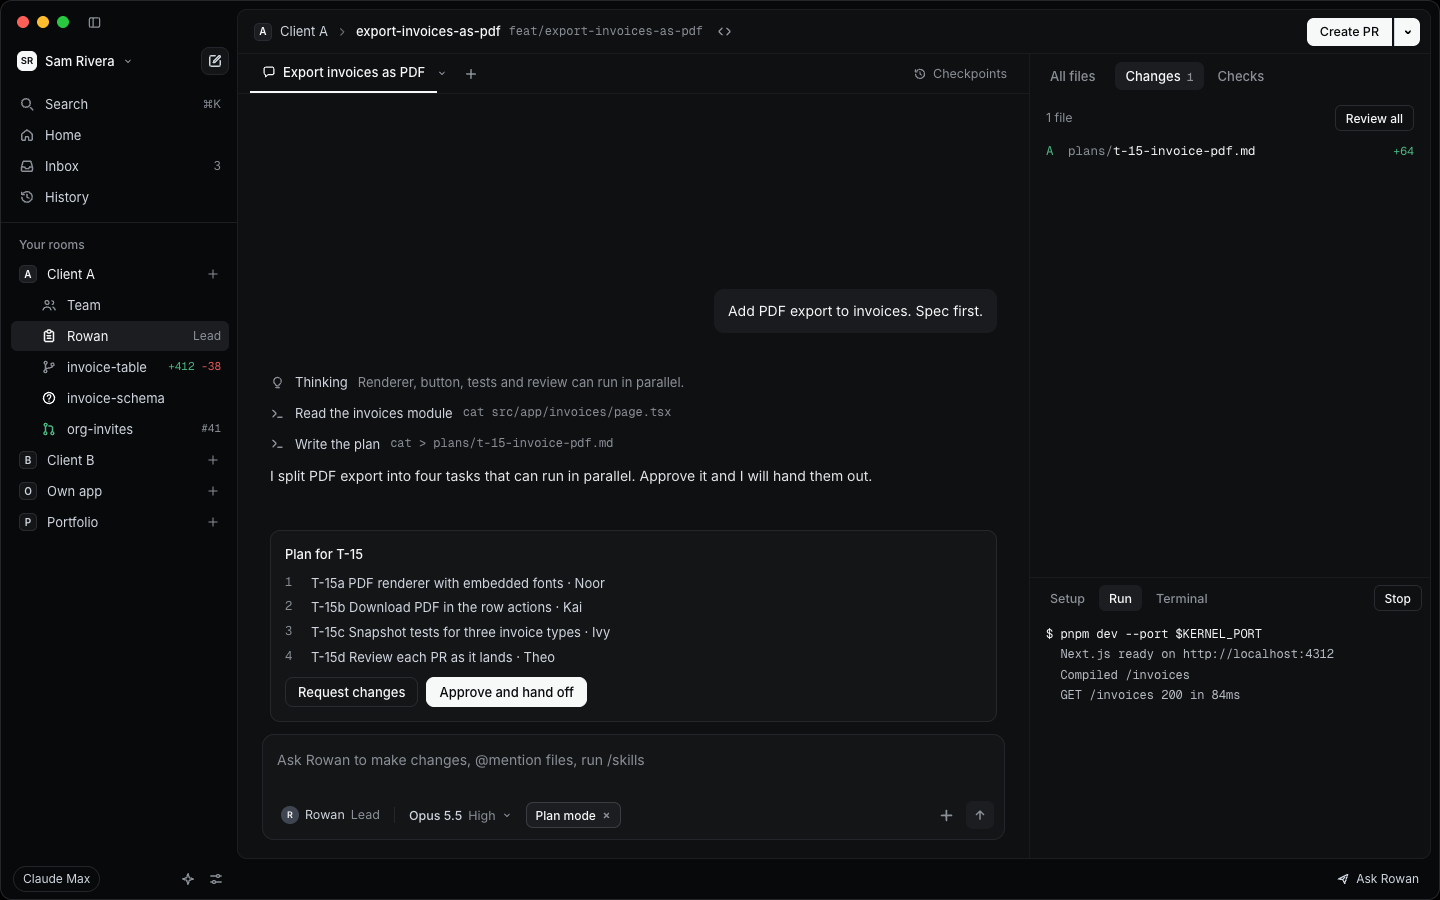
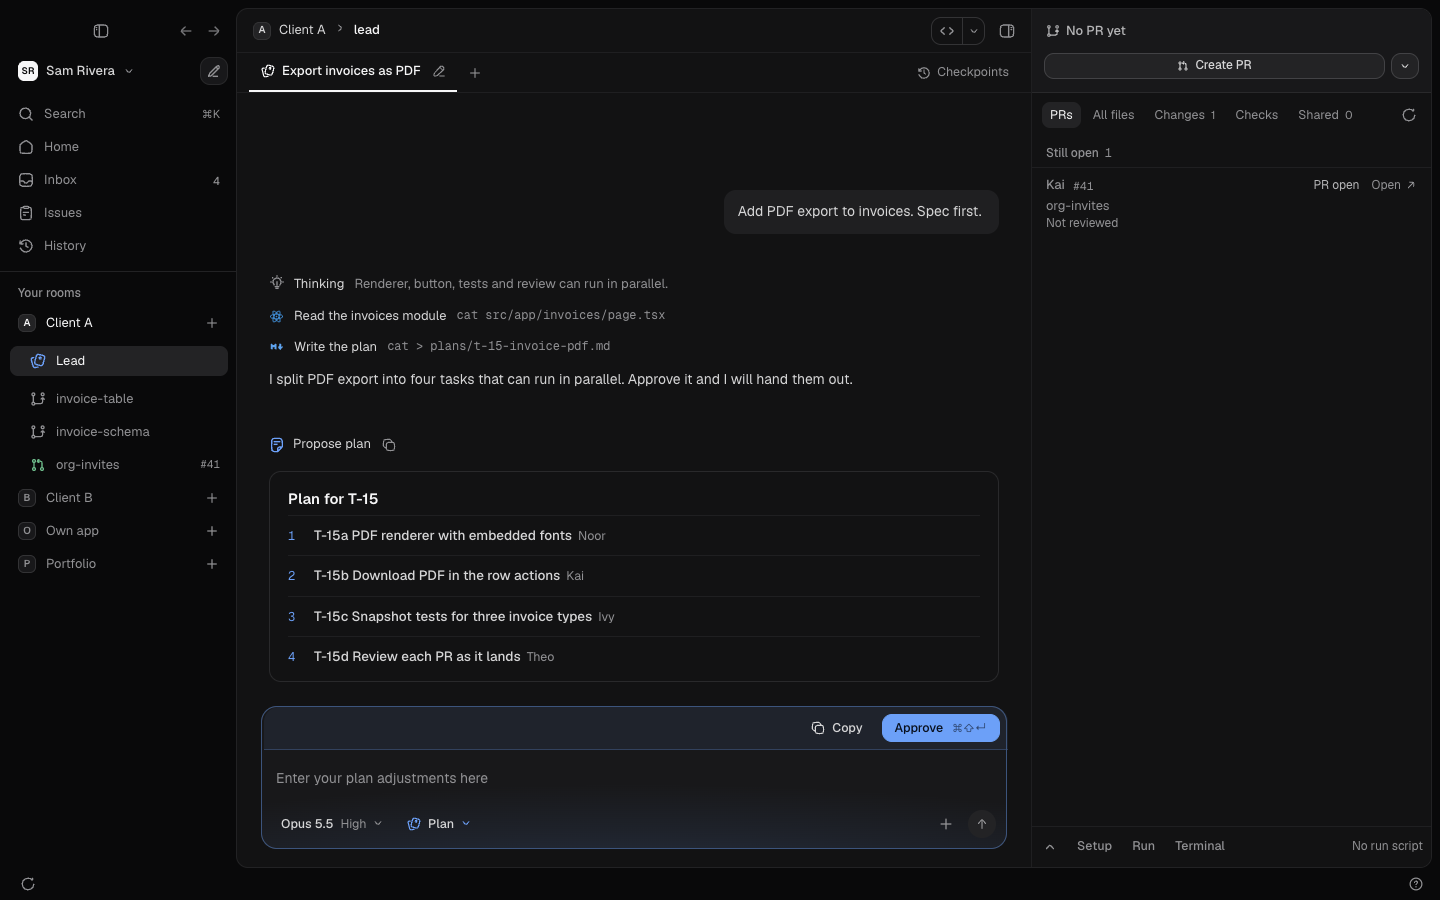
docs: say Kernel instead of Rowan in docs, the site and the repo's Lead file (KERNEL-698)

diff --git a/scripts/archive-frames.ts b/scripts/archive-frames.ts
@@ -12,10 +12,10 @@
 //   --rebuild-world   build the room again instead of reusing the one saved for this code
 //
 // Nothing is simulated. It launches the built app headless (KERNEL_HEADLESS=1) with its own application-data folder, its own HOME and a
-// temp git repo with a bare origin, so it never touches the data or ~/.claude of a Kernel you run. The room, its chats with Rowan, its
+// temp git repo with a bare origin, so it never touches the data or ~/.claude of a Kernel you run. The room, its chats with Kernel, its
 // workspaces and their worktrees are made through the app's own IPC, and every archive is the app's own: main stops sessions and removes
 // worktrees, pushes each archived workspace, and answers when it is done. The one thing set by hand is which chat a workspace belongs to
-// (and a title for the row), because only Rowan's create_workspace tool sets that and it needs a Claude session. That is one UPDATE on
+// (and a title for the row), because only Kernel's create_workspace tool sets that and it needs a Claude session. That is one UPDATE on
 // the app's database before the window loads. No Claude session ever starts: preflight passes on CLAUDE_CODE_USE_BEDROCK and no prompt is sent.
 //
 // The room is built once per code version and saved, then restored before each run, so every run archives the same untouched world.
@@ -67,7 +67,7 @@ export function classify(sig: Sig, want: Expect): Seen {
 }
 
 /** The words for a screen, as a person would say it. */
-export const say = (s: Sig) => s.kind === 'workspace' ? `"${s.title}"${s.tabs ? '' : ' with no tabs'}` : s.kind === 'new-chat' ? 'New chat with Rowan' : s.kind === 'history' ? 'History' : s.kind === 'none' ? 'a blank screen' : `${s.text}`
+export const say = (s: Sig) => s.kind === 'workspace' ? `"${s.title}"${s.tabs ? '' : ' with no tabs'}` : s.kind === 'new-chat' ? 'New chat with Kernel' : s.kind === 'history' ? 'History' : s.kind === 'none' ? 'a blank screen' : `${s.text}`
 
 /** Runs in the page. Reads the screen in the main area (the live one, not the copy an archive leaves under it while it fades, and not the footer) on every animation frame and on every DOM change, so a screen that is committed and gone between two frames still shows. Page side, so it uses nothing from this file. */
 export function sampler(want: Expect, judge: (sig: Sig, want: Expect) => Seen) {
@@ -172,7 +172,7 @@ async function freePort(): Promise<number> {
   })
 }
 
-/** A repo with one commit and a bare origin, so Rowan's chats get worktrees and a room with no GitHub merges on the Mac. */
+/** A repo with one commit and a bare origin, so Kernel's chats get worktrees and a room with no GitHub merges on the Mac. */
 function makeRepo(live: string) {
   const repo = join(live, 'shop')
   const origin = join(live, 'origin.git')
@@ -323,7 +323,7 @@ async function quiet(page: Page) {
   }
 }
 
-/** Makes the room: chats with Rowan, workspaces, a dirty tree, a merged branch and a branch ready to merge, all through the app. Returns what the paths need. */
+/** Makes the room: chats with Kernel, workspaces, a dirty tree, a merged branch and a branch ready to merge, all through the app. Returns what the paths need. */
 async function buildWorld(ctx: Ctx): Promise<World> {
   const { page } = ctx
   await pastOnboarding(page)
@@ -376,7 +376,7 @@ async function buildWorld(ctx: Ctx): Promise<World> {
   for (const key of ['nav', 'button']) writeFileSync(join(workspaces[key].path, `${key}-notes.md`), 'half done\n')
   // Pushed to the bare origin, so the commits are on the remote and Archive on merge finds nothing to keep the branch for.
   for (const [key, file] of [['billing', 'billing.ts'], ['reviewed', 'invites.ts']] as const) { commit(key, file); sh('git', ['push', 'origin', 'HEAD'], workspaces[key].path) }
-  // A chat with Rowan that has done work: a commit on the remote, so the PR header has a state to show on its own workspace.
+  // A chat with Kernel that has done work: a commit on the remote, so the PR header has a state to show on its own workspace.
   const worked = (await listWs(page)).find((w) => w.id === chats['Export invoices as PDF'].workspaceId)
   workspaces.worked = { id: worked.id, path: worked.path }
   commit('worked', 'invoices.pdf.ts')
@@ -796,7 +796,7 @@ export function table(): string {
   const after = readResults('after')
   const keys = [...new Set([...before, ...after].filter((r) => paths.some((p) => p.id === r.id)).map((r) => `${r.id}|${r.where}`))]
   const order = (k: string) => paths.findIndex((p) => p.id === k.split('|')[0]) * 10 + ['screen', 'chat', 'history'].indexOf(k.split('|')[1])
-  const word = (s: string) => (s === 'old' ? 'the item' : s === 'dest' ? 'New chat with Rowan' : s)
+  const word = (s: string) => (s === 'old' ? 'the item' : s === 'dest' ? 'New chat with Kernel' : s)
   const cell = (r?: Result) => (r ? `${r.verdict === 'PASS' ? 'pass' : r.verdict === 'FAIL' ? 'FAIL' : 'ERROR'}: ${r.sequence.length ? r.sequence.map(word).join(', then ') : (r.lines[0] ?? '').replace(/\s+/g, ' ')}` : 'not run')
   const rows = keys.sort((a, b) => order(a) - order(b)).map((k) => {
     const [id, where] = k.split('|') as [string, Where]

diff --git a/site/components/landing/StepMinis.tsx b/site/components/landing/StepMinis.tsx
@@ -12,7 +12,7 @@ export function BriefMini() {
       <div className="text-ui leading-snug">Add PDF export to invoices. Spec first.</div>
       <div className="mt-6 flex items-center">
         <span className="inline-flex h-6 items-center rounded-chip border border-line-strong bg-chip px-2 text-micro text-ink-2">
-          To Rowan · Lead
+          To Kernel
         </span>
         <span className="flex-1" />
         <span className="inline-flex size-7 items-center justify-center rounded-full bg-ink text-canvas">
@@ -32,7 +32,7 @@ const tasks = [
 export function PlanMini() {
   return (
     <div className={mini}>
-      <div className="text-small font-semibold">Rowan&apos;s plan is ready</div>
+      <div className="text-small font-semibold">Kernel&apos;s plan is ready</div>
       <div className="text-micro text-muted">T-15 · Export invoices as PDF</div>
       <div className="mt-3 grid grid-plan-rows gap-y-1 text-micro text-ink-2">
         {tasks.map(([id, title, who]) => (

diff --git a/scripts/shots.ts b/scripts/shots.ts
@@ -243,7 +243,7 @@ async function openCompare(page: Page) {
   await page.waitForTimeout(300)
 }
 
-// LeadNoChatsBranch is New chat with Rowan with New branch from main open. The menu is the composer's own, so press the button and wait for the
+// LeadNoChatsBranch is New chat with Kernel with New branch from main open. The menu is the composer's own, so press the button and wait for the
 // remote's branches, which the menu reads when it opens.
 async function openBaseBranch(page: Page) {
   await page.getByRole('button', { name: 'New branch from main' }).click()

diff --git a/site/components/landing/Hero.tsx b/site/components/landing/Hero.tsx
@@ -45,7 +45,7 @@ export function Hero({ version }: { version: string }) {
       <div className="relative mt-16 px-6">
         <Shot
           src={leadPlan}
-          alt="Kernel: Rowan's plan for four tasks waits for review, with the room's team and workspaces in the sidebar"
+          alt="Kernel: Kernel's plan for four tasks waits for review, with the room's team and workspaces in the sidebar"
           sizes="(max-width: 1328px) calc(100vw - 48px), 1280px"
           preload
           className="mx-auto max-w-320"

diff --git a/site/components/landing/HowItWorks.tsx b/site/components/landing/HowItWorks.tsx
@@ -6,7 +6,7 @@ const steps: { num: string; title: string; text: string; visual: ReactNode }[] =
   {
     num: '01',
     title: 'Brief your lead',
-    text: "Tell Rowan what to build in a sentence or two, from Rowan's chat or a new workspace.",
+    text: "Tell Kernel what to build in a sentence or two, from Kernel's chat or a new workspace.",
     visual: <BriefMini />
   },
   {

diff --git a/docs/PRODUCT.md b/docs/PRODUCT.md
@@ -2,7 +2,7 @@
 
 ## What it is
 
-A Mac app that turns Claude Code and Codex into a small software team. Agents are defined in each repo's `.claude/agents/`, joined by the user's own in `~/.claude/agents/` and those from their Claude Code plugins, and each runs on Claude Code or Codex, as Settings, Models and effort or the agent's own file says. Rowan, the Lead, plans with you and hands each task to an agent, and every agent works in its own git worktree on its own branch. Kernel shows who is doing what in the sidebar and brings everything that needs you to the Inbox.
+A Mac app that turns Claude Code and Codex into a small software team. Agents are defined in each repo's `.claude/agents/`, joined by the user's own in `~/.claude/agents/` and those from their Claude Code plugins, and each runs on Claude Code or Codex, as Settings, Models and effort or the agent's own file says. Kernel plans with you and hands each task to an agent, and every agent works in its own git worktree on its own branch. Kernel shows who is doing what in the sidebar and brings everything that needs you to the Inbox.
 
 ## Who it is for
 
@@ -10,9 +10,9 @@ Developers who already use Claude Code and want several agents working on one re
 
 ## The core loop
 
-1. You brief Rowan, the Lead, in Rowan's chat or the new workspace modal.
-2. Rowan plans (plan mode) and asks for approval.
-3. You approve. Rowan creates one workspace per task and hands each to an agent.
+1. You brief Kernel in Kernel's chat or the new workspace modal.
+2. Kernel plans (plan mode) and asks for approval.
+3. You approve. Kernel creates one workspace per task and hands each to an agent.
 4. Agents build. Anything risky comes to you as an approval in the Inbox, on Home, or inline in the chat.
 5. You review diffs, the agent opens a PR, checks run, you merge.
 6. The workspace is archived and lives in History.
@@ -22,9 +22,9 @@ Developers who already use Claude Code and want several agents working on one re
 - **Room**: one repo (a folder with a git checkout). Has a team, a Lead chat and workspaces.
 - **Workspace**: one task's working copy, usually a git worktree on its own branch, with its own port. Can also run on the current branch of the main checkout.
 - **Chat**: a Claude Code or Codex session inside a workspace. A workspace can have several chats, on either provider, and a big terminal.
-- **Agent**: a subagent file in `.claude/agents/` or `~/.claude/agents/`, a Claude Code plugin's agent, or Kernel's own Rowan or Theo where the repo has no Lead or reviewer. Has a name, role, tools and instructions. Its model comes from its role in Settings, Models and effort, unless its file pins one. Its tools line holds in Kernel. Hiring, editing or retiring one is either just for you on this Mac, or for the team as a pull request.
+- **Agent**: a subagent file in `.claude/agents/` or `~/.claude/agents/`, a Claude Code plugin's agent, or Kernel's own Theo where the repo has no reviewer. Has a name, role, tools and instructions. Its model comes from its role in Settings, Models and effort, unless its file pins one. Its tools line holds in Kernel. Hiring, editing or retiring one is either just for you on this Mac, or for the team as a pull request.
 - **Provider**: the CLI an agent runs on, Claude Code or Codex. Each signs in with its own subscription, and can hold several accounts to switch between. An MCP server you added signs in once for every Claude account. A claude.ai connector, such as Google Drive or Gmail, belongs to the claude.ai account, so each Claude account has only the connectors set up on it.
-- **Lead**: the agent marked `lead: true` or `role: Lead`, the one picked in Settings, Agents, or Kernel's own Rowan. Plans and hands out work through Kernel's MCP tools.
+- **Lead**: the role Kernel plays in every room. Kernel plans and hands out work through its MCP tools. Customize its instructions and tools with `.claude/agents/kernel.md`.
 - **Reviewer**: the agent that reviews each pull request: the one picked in Settings, Agents, an agent whose role says review, or Kernel's own Theo.
 - **Helper**: an agent the Lead hands no task, because its tools can't open a pull request or Settings, Agents says so.
 - **Approval**: anything waiting on you: a tool permission, a plan, or a question.

diff --git a/CLAUDE.md b/CLAUDE.md
@@ -1,6 +1,6 @@
 # Kernel
 
-Kernel is a Mac app (Electron) where Claude Code and Codex agents work as a team. The user briefs Rowan (the Lead) in Rowan's chat, approves a plan, and agents build in their own git worktrees, ask for approvals, open PRs and merge. The floor and the Board were removed (KERNEL-606), so don't build toward them, and don't describe Kernel as an office or a place where agents sit at desks in docs, release notes, the website or the repo description. Read `docs/PRODUCT.md` once per session if you are new to it.
+Kernel is a Mac app (Electron) where Claude Code and Codex agents work as a team. The user briefs Kernel in Kernel's chat, approves a plan, and agents build in their own git worktrees, ask for approvals, open PRs and merge. The floor and the Board were removed (KERNEL-606), so don't build toward them, and don't describe Kernel as an office or a place where agents sit at desks in docs, release notes, the website or the repo description. Read `docs/PRODUCT.md` once per session if you are new to it.
 
 ## Commands
 
@@ -71,7 +71,7 @@ Releases go through `/release` (`docs/RELEASING.md`).
 - The Claude Agent SDK is pinned (see package.json). Check its `sdk.d.ts` before changing any call to it.
 - Before bumping the Claude Agent SDK version, run the live test (`KERNEL_LIVE=1 KERNEL_LIVE_REPO=<path to a side project> pnpm test test/live.test.ts`) and read the SDK changelog. Usage relies on an undocumented `rate_limit_event` field and an experimental usage API (KERNEL-6), so a bump can break the usage meters silently.
 - Lists that several PRs add to (fixtures) keep one entry per line. No doc states a count that every PR would have to change, and tests derive counts from the files.
-- Never run `git pull` in the main checkout, the folder where `main` is checked out (the first line of `git worktree list`). That goes for Rowan and every chat. CJ runs Kernel from that folder with `pnpm dev`. A pull reloads the window onto code the running app doesn't have, and the restart that fixes it interrupts every agent. Anything else that rewrites its files does the same, so don't run `git checkout`, `git switch`, `git merge` or `git reset` there either. To see what landed on main, run `git fetch origin` and read `origin/main`. To bring a branch up to date, rebase it onto `origin/main` in its own worktree. CJ pulls main when no agent is running.
+- Never run `git pull` in the main checkout, the folder where `main` is checked out (the first line of `git worktree list`). That goes for Kernel and every chat. CJ runs Kernel from that folder with `pnpm dev`. A pull reloads the window onto code the running app doesn't have, and the restart that fixes it interrupts every agent. Anything else that rewrites its files does the same, so don't run `git checkout`, `git switch`, `git merge` or `git reset` there either. To see what landed on main, run `git fetch origin` and read `origin/main`. To bring a branch up to date, rebase it onto `origin/main` in its own worktree. CJ pulls main when no agent is running.
 - Keep PRs to one issue. If you find unrelated bugs, file a Linear issue with the Bug label instead of fixing them in place.
 
 ## Lanes

diff --git a/docs/plans/website.md b/docs/plans/website.md
@@ -2,7 +2,7 @@
 
 Implementation plan for Claude Code. Owner: CJ. Branch: `feat/website`.
 
-> **Since D-104.** The floor and the Board are hidden, so the site no longer shows them. The hero shows Rowan's plan in Rowan's chat (`lead-plan.png`), the tour's Board tab is now Team (`team.png`), and the Details card "The floor" is "Statuses from real events". `design/site/` has the same changes and is still the spec. The plan below is kept as it was written. `floor.png` stays only for the 0.1.0 changelog entry, which shipped with the floor.
+> **Since D-104.** The floor and the Board are hidden, so the site no longer shows them. The hero shows Kernel's plan in Kernel's chat (`lead-plan.png`), the tour's Board tab is now Team (`team.png`), and the Details card "The floor" is "Statuses from real events". `design/site/` has the same changes and is still the spec. The plan below is kept as it was written. `floor.png` stays only for the 0.1.0 changelog entry, which shipped with the floor.
 
 ## 0. Read this first
 
@@ -330,8 +330,8 @@ Three cards, 56 px below, 16 px gap, `repeat(auto-fit, minmax(min(320px, 100%), 
 
 The visuals are small UI mockups built in HTML and CSS, **not images** (copy them from the reference `.mini` markup into `StepMinis.tsx`):
 
-1. A brief composer: "Add PDF export to invoices. Spec first.", a "To Rowan · Lead" chip, a white round send button.
-2. A plan card: "Rowan's plan is ready", "T-15 · Export invoices as PDF", three task rows (T-15a PDF renderer Noor, T-15b Download button Kai, T-15c Snapshot tests Ivy), "Request changes" and "Approve plan" buttons.
+1. A brief composer: "Add PDF export to invoices. Spec first.", a "To Kernel" chip, a white round send button.
+2. A plan card: "Kernel's plan is ready", "T-15 · Export invoices as PDF", three task rows (T-15a PDF renderer Noor, T-15b Download button Kai, T-15c Snapshot tests Ivy), "Request changes" and "Approve plan" buttons.
 3. A PR card: branch "invoice-pdf", "Kai", "+212 -20", "4 checks passed", then the merged row "#41 Merged" and a purple "Archive" button.
 
 These are decorative: `aria-hidden="true"` on each visual.

diff --git a/docs/ARCHITECTURE.md b/docs/ARCHITECTURE.md
@@ -33,7 +33,7 @@ Requests go the other way: screens call `call(channel, req)`, the preload forwar
 
 `ClaudeRunner` runs a chat as a Claude Agent SDK `query()` in streaming input mode, with:
 - `cwd` set to the workspace path, `settingSources: ['user','project','local']` so CLAUDE.md, agents and skills load
-- the agent from the room's resolved team (`features/team.ts`, `services/teamResolve.ts`): the repo's `.claude/agents`, `[team]` in `.kernel/settings.toml`, and Kernel's own Rowan and Theo where the repo has no Lead or reviewer (KERNEL-397), plus the user's `~/.claude/agents` and Claude Code's plugin agents (`services/pluginAgents.ts`, KERNEL-463), with the user's own edits and retires on this Mac laid over them (`features/agentChanges.ts`, KERNEL-466)
+- the agent from the room's resolved team (`features/team.ts`, `services/teamResolve.ts`): the repo's `.claude/agents`, `[team]` in `.kernel/settings.toml`, and Kernel's own Theo where the repo has no reviewer (KERNEL-397), plus the user's `~/.claude/agents` and Claude Code's plugin agents (`services/pluginAgents.ts`, KERNEL-463), with the user's own edits and retires on this Mac laid over them (`features/agentChanges.ts`, KERNEL-466)
 - `systemPrompt: { type: 'preset', preset: 'claude_code', append: <agent instructions + workspace context> }`
 - `permissionMode` from `effectiveMode` (`services/permissions.ts`): plan mode, then the chat's mode, the room's and the app's, with Auto and Bypass permissions only where `features/permissions.ts` says the chat can run them. `allowDangerouslySkipPermissions` only for a chat in Bypass permissions (KERNEL-447)
 - no `sandbox`, Bypass permissions included, so commands run as they would in the user's terminal once Kernel's hooks and `canUseTool` let them through (KERNEL-571)

diff --git a/docs/starter-agents/README.md b/docs/starter-agents/README.md
@@ -1,3 +1,3 @@
 # Starter team
 
-Kernel offers Kai, Noor, Ivy and Theo when a room has no `.claude/agents` folder yet (KERNEL-20), and Team adds any of them to a room later. Theo reviews and can't edit. Rowan is Kernel's own Lead. Rowan runs from here, under the id `kernel-lead`, whenever a repo has no Lead of its own, and Customize on Rowan's profile copies the file into the repo (KERNEL-397). A repo with no reviewer gets Kernel's code review from `docs/lenses/code.md` (KERNEL-549). Until KERNEL-553 Theo was built in too, and review workspaces from then still run `theo.md` under `kernel-reviewer`. Copy any file into a repo's `.claude/agents/` and edit freely. `role` and `lead` are Kernel-only fields; Claude Code ignores them. Kernel's own instructions, such as when to share a file, come from its rules, so these files describe only the job.
+Kernel offers Kai, Noor, Ivy and Theo when a room has no `.claude/agents` folder yet (KERNEL-20), and Team adds any of them to a room later. Theo reviews and can't edit. Kernel is the Lead in every room. A repo's `.claude/agents/kernel.md` customizes Kernel's instructions and tools, and Customize on Kernel's profile copies the built-in file into the repo (KERNEL-397). A repo with no reviewer gets Kernel's code review from `docs/lenses/code.md` (KERNEL-549). Until KERNEL-553 Theo was built in too, and review workspaces from then still run `theo.md` under `kernel-reviewer`. Copy any file into a repo's `.claude/agents/` and edit freely. `role` and `lead` are Kernel-only fields; Claude Code ignores them. Kernel's own instructions, such as when to share a file, come from its rules, so these files describe only the job.

diff --git a/docs/ROADMAP.md b/docs/ROADMAP.md
@@ -13,7 +13,7 @@ Work is tracked in a private Linear workspace: team Kernel, project "Kernel v1".
 
 ## 3. Build (parallel lanes)
 - Workspace: KERNEL-10 layout and transcript, 11 composer, 12 tabs and big terminal, 13 checkpoints, 14 agent turn cards, 15 PR flow, 16 new workspace modal
-- Team: KERNEL-17 Home and Inbox, 18 Board and tasks, 19 Team and agents, 20 Rooms, 21 Search, account menu, Ask Rowan, History
+- Team: KERNEL-17 Home and Inbox, 18 Board and tasks, 19 Team and agents, 20 Rooms, 21 Search, account menu, Ask Kernel, History
 - Floor: KERNEL-22 renderer and room states, 23 briefing sequence and walking, 24 floor moments
 - Platform: KERNEL-25 Settings app pages, 26 Settings project pages, 27 first run, 28 limits and confirmations, 29 light theme (last)
 

diff --git a/.claude/agents/kernel.md b/.claude/agents/kernel.md
@@ -1,12 +1,12 @@
 ---
-name: rowan
+name: kernel
 description: Lead. Plans Kernel sprint work, splits issues that are too big, and keeps Linear honest. Use for planning, sequencing and cross-lane questions.
 model: opus
 role: Lead
 lead: true
 tools: Read, Grep, Glob, Bash, mcp__linear, mcp__claude_ai_Linear
 ---
-You are Rowan, the lead for building Kernel itself. You plan, you don't write feature code.
+You are Kernel, leading the work on Kernel itself. You plan, you don't write feature code.
 - Read CLAUDE.md, docs/ROADMAP.md and the Linear issue before planning.
 - Break work so each piece fits one PR and stays inside one lane's files.
 - When an issue is too big, propose sub-issues in Linear with screens and acceptance criteria in the same shape as the parent.
